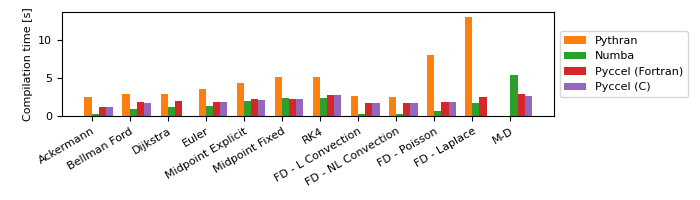
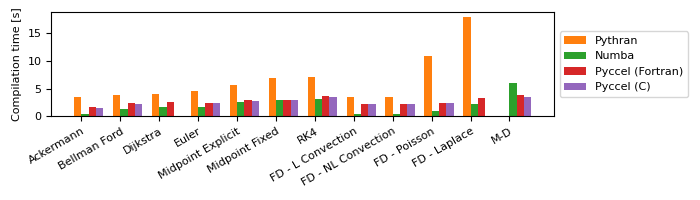
Update performance comparison

diff --git a/version_specific_results/devel_performance_310.md b/version_specific_results/devel_performance_310.md
@@ -1,32 +1,32 @@
-### Performance Comparison (as of Mon Nov 21 18:10:52 UTC 2022)
+### Performance Comparison (as of Mon Nov 21 18:59:00 UTC 2022)
 ## Compilation time
 Algorithm                 | python                    | pythran                   | numba                     | pyccel                    | pyccel_c                 
 ------------------------- | ------------------------- | ------------------------- | ------------------------- | ------------------------- | -------------------------
-Ackermann                 | -                         | 2.58                      | 0.33                      | 1.25                      | 1.20                     
-Bellman Ford              | -                         | 2.95                      | 0.95                      | 1.85                      | 1.78                     
-Dijkstra                  | -                         | 2.96                      | 1.26                      | 1.95                      | -                        
-Euler                     | -                         | 3.50                      | 1.32                      | 1.89                      | 1.87                     
-Midpoint Explicit         | -                         | 4.35                      | 2.06                      | 2.22                      | 2.17                     
-Midpoint Fixed            | -                         | 5.18                      | 2.34                      | 2.29                      | 2.24                     
-RK4                       | -                         | 5.16                      | 2.38                      | 2.82                      | 2.74                     
-FD - L Convection         | -                         | 2.62                      | 0.32                      | 1.77                      | 1.74                     
-FD - NL Convection        | -                         | 2.57                      | 0.31                      | 1.75                      | 1.75                     
-FD - Poisson              | -                         | 7.95                      | 0.75                      | 1.86                      | 1.81                     
-FD - Laplace              | -                         | 12.95                     | 1.73                      | 2.51                      | -                        
-M-D                       | -                         | -                         | 5.32                      | 2.95                      | 2.65                     
+Ackermann                 | -                         | 3.48                      | 0.46                      | 1.63                      | 1.59                     
+Bellman Ford              | -                         | 3.93                      | 1.27                      | 2.41                      | 2.28                     
+Dijkstra                  | -                         | 4.00                      | 1.67                      | 2.52                      | -                        
+Euler                     | -                         | 4.63                      | 1.75                      | 2.42                      | 2.39                     
+Midpoint Explicit         | -                         | 5.71                      | 2.60                      | 2.92                      | 2.85                     
+Midpoint Fixed            | -                         | 6.88                      | 3.01                      | 2.98                      | 2.94                     
+RK4                       | -                         | 7.02                      | 3.13                      | 3.66                      | 3.51                     
+FD - L Convection         | -                         | 3.51                      | 0.42                      | 2.28                      | 2.24                     
+FD - NL Convection        | -                         | 3.48                      | 0.42                      | 2.29                      | 2.26                     
+FD - Poisson              | -                         | 10.88                     | 0.99                      | 2.43                      | 2.45                     
+FD - Laplace              | -                         | 17.95                     | 2.24                      | 3.26                      | -                        
+M-D                       | -                         | -                         | 6.02                      | 3.80                      | 3.43                     
 
 ## Execution time
 Algorithm                 | python                    | pythran                   | numba                     | pyccel                    | pyccel_c                 
 ------------------------- | ------------------------- | ------------------------- | ------------------------- | ------------------------- | -------------------------
-Ackermann (ms)            | 383.00                    | 21.90                     | 31.80                     | 13.20                     | 13.70                    
-Bellman Ford (ns)         | 57200.00                  | 362.00                    | 700.00                    | 217.00                    | 464.00                   
-Dijkstra (ns)             | 30200.00                  | 349.00                    | 600.00                    | 244.00                    | -                        
-Euler (ms)                | 51.30                     | 0.49                      | 1.23                      | 0.14                      | 2.69                     
-Midpoint Explicit (ms)    | 103.00                    | 1.18                      | 3.08                      | 0.18                      | 4.78                     
-Midpoint Fixed (ms)       | 503.00                    | 7.50                      | 17.30                     | 0.61                      | 21.20                    
-RK4 (ms)                  | 251.00                    | 1.86                      | 6.32                      | 0.23                      | 5.82                     
-FD - L Convection (ms)    | 2020.00                   | 1.87                      | 9.34                      | 1.78                      | 1.79                     
-FD - NL Convection (ms)   | 2680.00                   | 2.01                      | 9.39                      | 1.65                      | 1.58                     
-FD - Poisson (ms)         | 4370.00                   | 2.28                      | 10.90                     | 3.86                      | 2.04                     
-FD - Laplace (\textmu s)  | 44.60                     | 2.54                      | 8440.00                   | 2.06                      | -                        
-M-D (ms)                  | 51300.00                  | -                         | 232.00                    | 177.00                    | 193.00                   
+Ackermann (ms)            | 497.00                    | 18.40                     | 34.40                     | 3.85                      | 3.35                     
+Bellman Ford (ns)         | 76100.00                  | 466.00                    | 700.00                    | 277.00                    | 599.00                   
+Dijkstra (ns)             | 36800.00                  | 416.00                    | 600.00                    | 348.00                    | -                        
+Euler (\textmu s)         | 62700.00                  | 749.00                    | 985.00                    | 229.00                    | 3660.00                  
+Midpoint Explicit (ms)    | 127.00                    | 1.68                      | 2.80                      | 0.31                      | 6.58                     
+Midpoint Fixed (ms)       | 645.00                    | 9.80                      | 15.20                     | 1.17                      | 28.00                    
+RK4 (ms)                  | 287.00                    | 2.54                      | 5.35                      | 0.48                      | 7.75                     
+FD - L Convection (ms)    | 2590.00                   | 2.08                      | 11.90                     | 2.34                      | 2.02                     
+FD - NL Convection (ms)   | 3290.00                   | 2.35                      | 11.70                     | 2.46                      | 2.57                     
+FD - Poisson (ms)         | 5400.00                   | 3.86                      | 14.10                     | 5.07                      | 3.52                     
+FD - Laplace (\textmu s)  | 67.50                     | 2.98                      | 10900.00                  | 2.58                      | -                        
+M-D (ms)                  | 58600.00                  | -                         | 271.00                    | 223.00                    | 233.00                   
